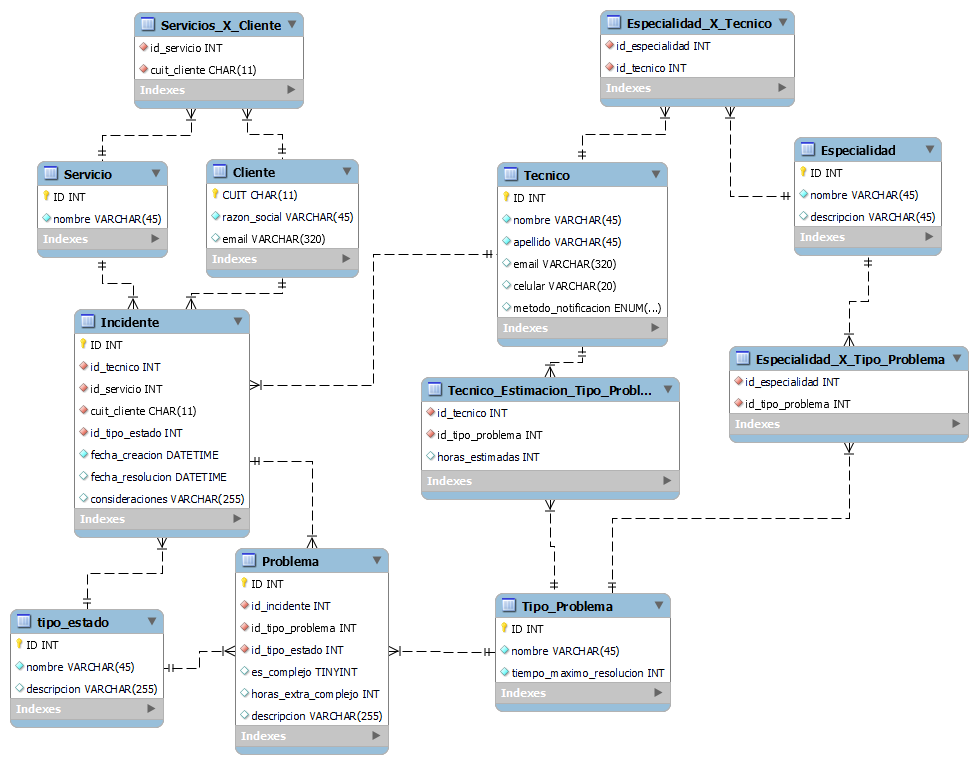
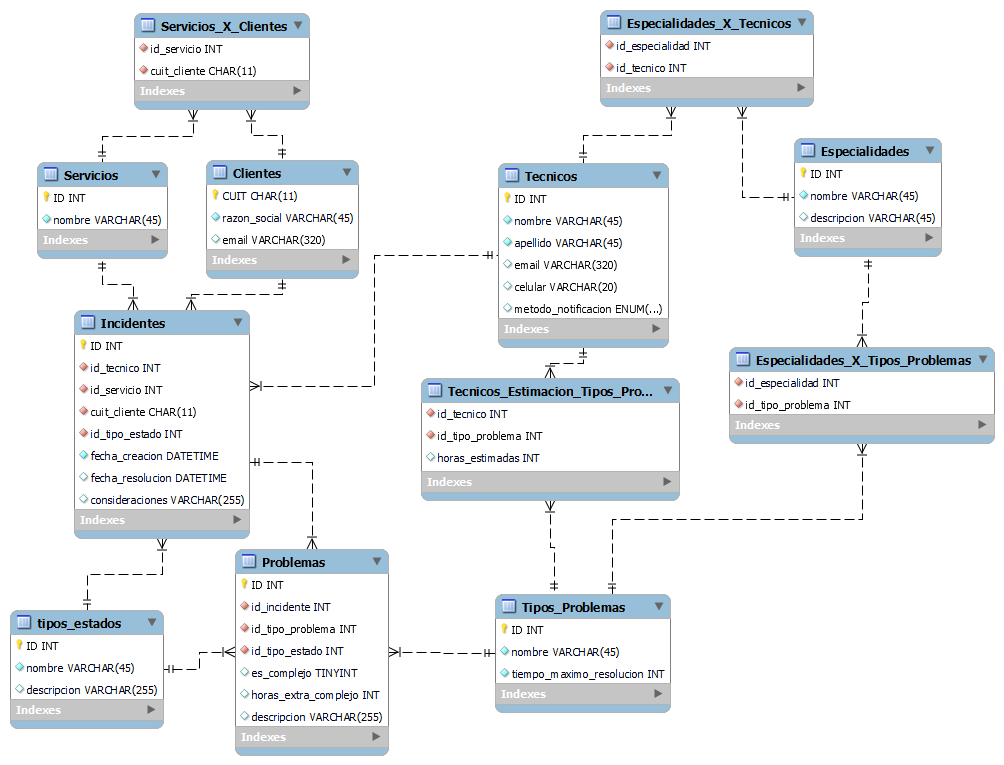
Agregados scripts de creado y borrado de tablas para la DB, que se pueden usar con el metodo nuevo en DBConfig. tambien puse los nombres de las tablas en plural, y termine las annotations de cliente

diff --git a/src/test/java/ClienteTest.java b/src/test/java/ClienteTest.java
@@ -2,26 +2,23 @@ import org.example.config.DBConfig;
 import org.example.models.Cliente;
 
 import javax.persistence.EntityManager;
-import javax.persistence.EntityManagerFactory;
-import javax.persistence.Persistence;
 
 public class ClienteTest {
     public static void main(String[] args) {
         System.out.println("Probando configuración de la BD con JPA");
 
         try {
+            DBConfig.generateSchema(); // Genero las tablas de la DB
             EntityManager em = DBConfig.getEntityManager();
             System.out.println("Conexión exitosa a la base de datos");
-
             // Codigo a testear
 
             Cliente cliente = new Cliente("cuitprueba1", "razon social prueba1");
             //Cliente cliente = em.find(Cliente.class, "cuitprueba1"); // esto seria para encontrar un cliente que ya existe
             em.getTransaction().begin();
-            if (cliente != null){
-                em.persist(cliente);
-            }
+            em.merge(cliente); // se puede usar persist para crear campos pero tira error cuando ya existen y merge no
             em.getTransaction().commit();
+            // esto deberia haber generado un cliente en la tabla clientes
 
 
         } catch (Exception e) {

diff --git a/src/main/java/org/example/models/Cliente.java b/src/main/java/org/example/models/Cliente.java
@@ -6,12 +6,13 @@ import javax.persistence.*;
 
 @AllArgsConstructor @RequiredArgsConstructor @NoArgsConstructor(force = true)
 @Setter @Getter @ToString
-@Entity @Table(name = "cliente")
+@Entity @Table(name = "clientes")
 public class Cliente {
-    @Id @NonNull
+    @Id @NonNull @Column(name = "cuit", length = 11)
     private String cuit;
-    @Column(name = "razon_social", nullable = false) @NonNull
+    @NonNull @Column(name = "razon_social", nullable = false, length = 45)
     private String razonSocial;
+    @Column(name = "email", length = 320) // una direccion email puede llegar a tener 320 caracteres
     private String email;
 
 }

diff --git a/src/main/java/org/example/models/Especialidad.java b/src/main/java/org/example/models/Especialidad.java
@@ -1,8 +1,15 @@
 package org.example.models;
+import lombok.*;
+import javax.persistence.*;
 
-public enum Especialidad {
-    LINUX,
-    WINDOWS,
-    MAC,
-    REDES // TODO: Agregar especialidades ( no se me ocurrieron mas )
+
+@AllArgsConstructor @RequiredArgsConstructor @NoArgsConstructor(force = true)
+@Setter @Getter @ToString
+@Entity @Table(name = "especialidades")
+public class Especialidad {
+    @Id
+    private int id;
+    @NonNull @Column(name = "nombre", length = 45)
+    private String nombre;
+    private String descripcion;
 }

diff --git a/src/main/java/org/example/config/DBConfig.java b/src/main/java/org/example/config/DBConfig.java
@@ -11,12 +11,13 @@ import  java.sql.Statement;
 public class DBConfig {
 
     static EntityManagerFactory factory = null;
-
+    public static void generateSchema(){
+        Persistence.generateSchema("JPA_PU",null);
+    }
     public static EntityManager getEntityManager(){
         if(factory == null)
             factory = Persistence.createEntityManagerFactory("JPA_PU");
-        EntityManager manager = factory.createEntityManager();
-        return manager;
+        return factory.createEntityManager();
     }
 
 
